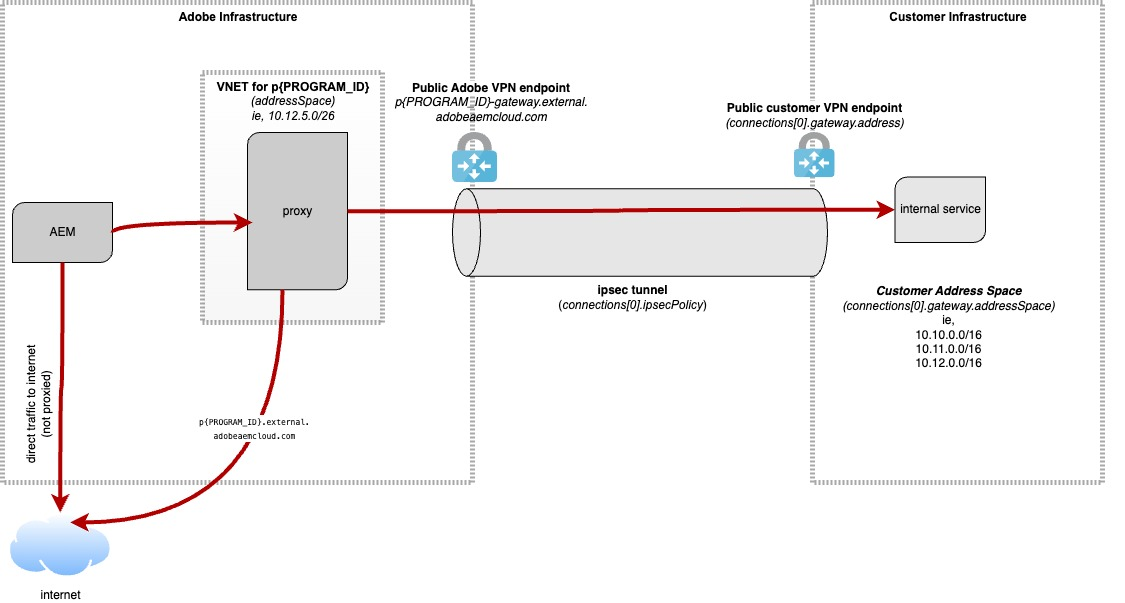
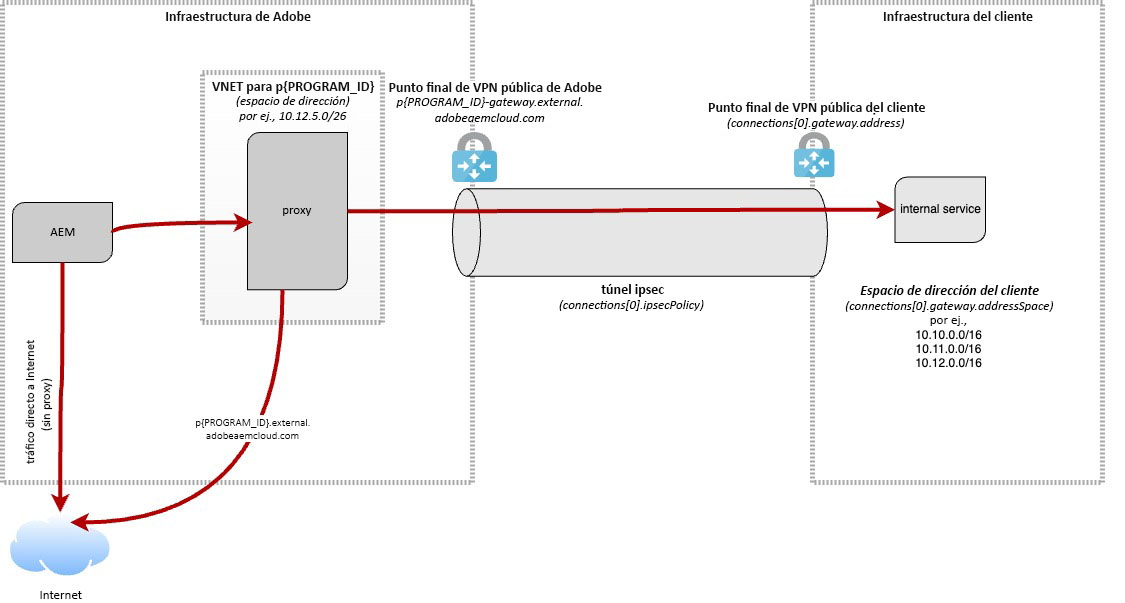
Updated by task 'AUTO_HANDOFF_PRIORITY_1731069575689'  Changes for core/source commit https://git.corp.adobe.com/AdobeDocs/experience-manager-cloud-service.en/commit/54368872e8e7d5f177ca75e6280786b33562cf8f

diff --git a/help/implementing/cloud-manager/release-notes/current.md b/help/implementing/cloud-manager/release-notes/current.md
@@ -5,15 +5,15 @@ feature: Release Information
 role: Admin
 exl-id: 24d9fc6f-462d-417b-a728-c18157b23bbe
 source-git-commit: 87293526ca9c10a142bc1d1d3a35562b171da385
-workflow-type: tm+mt
+workflow-type: ht
 source-wordcount: '784'
-ht-degree: 30%
+ht-degree: 100%
 
 ---
 
 # Notas de la versión para Cloud Manager 2024.11.0 en Adobe Experience Manager as a Cloud Service {#release-notes}
 
-Obtenga información acerca del lanzamiento de Cloud Manager AEM 2024.11.0 en el as a Cloud Service de (Adobe Experience Manager) en la.
+Obtenga información sobre el lanzamiento de Cloud Manager 2024.11.0 en AEM (Adobe Experience Manager) as a Cloud Service.
 
 >[!NOTE]
 >
@@ -28,7 +28,7 @@ La próxima versión planificada es el 5 de diciembre de 2024.
 ## Novedades {#what-is-new}
 
 * Experimente la última innovación en Edge Delivery Services con AEM Cloud Service, ahora disponible para explorar en su programa de zona protegida. [Más información](/help/implementing/cloud-manager/getting-access-to-aem-in-cloud/introduction-sandbox-programs.md#auto-creation) <!-- (CMGR-62319) -->
-* La página Configuración de dominio de AEM Cloud Manager ahora incluye una función de búsqueda que permite localizar rápidamente dominios por nombre. Puede introducir palabras clave en el campo de búsqueda para filtrar y mostrar los dominios coincidentes, lo que facilita la administración eficaz de varios dominios. Además, la página ofrece filtros de estado, como **Verificado** y **No verificado**, para restringir aún más los resultados de búsqueda. <!-- (CMGR-62615) -->
+* La página Configuración de dominio de AEM Cloud Manager ahora incluye una función de búsqueda que permite localizar con rapidez dominios por nombre. Puede introducir palabras clave en el campo de búsqueda para filtrar y mostrar los dominios coincidentes, lo que facilita la administración eficaz de varios dominios. Además, la página ofrece filtros de estado, como **Verificado** y **No verificado**, para restringir aún más los resultados de búsqueda. <!-- (CMGR-62615) -->
 
 ![Campo de búsqueda en la configuración de dominio](/help/implementing/cloud-manager/assets/domain-settings-search.png)
 
@@ -36,16 +36,16 @@ La próxima versión planificada es el 5 de diciembre de 2024.
 
 Participe en nuestro programa para primeros usuarios de Cloud Manager y tenga la oportunidad de probar algunas de las próximas funciones.
 
-### AEM Página de inicio {#aem-home}
+### Inicio de AEM {#aem-home}
 
-AEM Inicio presenta un punto de partida centralizado para administrar contenido, recursos y sitios en Adobe Experience Manager. AEM AEM Diseñado para ofrecer una experiencia personalizada, el Hogar de la le permite navegar por el ecosistema de forma fluida según sus roles y objetivos. Como guía, proporciona perspectivas clave y acciones recomendadas para ayudarle a lograr sus objetivos de forma eficaz. AEM AEM Con un diseño claro y dirigido por el usuario, el hogar de la comunidad de usuarios garantiza un acceso rápido a las herramientas esenciales, lo que permite una experiencia ágil y eficaz en todas las funciones de la comunidad de usuarios de la red de área de trabajo de la comunidad de.
+El inicio de AEM presenta un punto de partida centralizado para administrar contenido, recursos y sitios en Adobe Experience Manager. Diseñado para ofrecer una experiencia personalizada, el inicio de AEM le permite navegar por el ecosistema de forma fluida según sus roles y objetivos. Como guía, proporciona perspectivas clave y acciones recomendadas para ayudarle a lograr sus objetivos de forma eficaz. Con un diseño claro y dirigido por el usuario, el inicio de AEM garantiza un acceso rápido a las herramientas esenciales, lo que permite una experiencia ágil y eficaz en todas las funciones de AEM.
 
-AEM Disponible para los primeros usuarios que lo adoptaron, el Hogar ofrece una experiencia optimizada centrada en mejorar los flujos de trabajo, priorizar los objetivos y ofrecer resultados. AEM AEM La inclusión le permite influir en el desarrollo de la página de inicio de la página de inicio al proporcionar comentarios que ayudan a dar forma a su futuro y mejorar su valor para toda la comunidad de la.
+Disponible para los primeros usuarios, el inicio de AEM ofrece una experiencia optimizada centrada en mejorar los flujos de trabajo, priorizar los objetivos y lograr resultados. La inclusión le permite influir en el desarrollo del inicio de AEM al proporcionar comentarios que ayudan a dar forma a su futuro y mejorar su valor para toda la comunidad de AEM.
 
-Si está interesado en probar esta nueva funcionalidad y compartir sus comentarios, envíe un correo electrónico a [Grp-AemHome@adobe.com](mailto:Grp-AemHome@adobe.com) desde su dirección de correo electrónico asociada a su Adobe ID. Asegúrese de incluir la siguiente información:
+Si le interesa probar esta nueva función y compartir sus comentarios, envíe un correo electrónico a [Grp-AemHome@adobe.com](mailto:Grp-AemHome@adobe.com) desde la dirección de correo electrónico asociada a su Adobe ID. Asegúrese de incluir la siguiente información:
 
 * La función que mejor se adapta a su perfil: Autor de contenido, Desarrollador, Propietario empresarial, Administrador u Otro (proporcione una descripción).
-* AEM Su superficie de acceso principal al: AEM Sites, AEM Assets, AEM Forms, Cloud Manager u Otros (proporcione una descripción).
+* Su superficie de acceso principal a AEM: AEM Sites, AEM Assets, AEM Forms, Cloud Manager u Otro (proporcione una descripción).
 
 ### Usar su propio Git: ahora se admiten GitLab y Bitbucket {#gitlab-bitbucket}
 
@@ -61,16 +61,16 @@ Consulte [Adición de repositorios externos en Cloud Manager](/help/implementing
 >
 >Actualmente, las comprobaciones de calidad del código de las solicitudes de extracción listas para usar son exclusivas de los repositorios alojados en GitHub, pero se está trabajando en una actualización para ampliar esta funcionalidad a otros proveedores de Git.
 
-Si le interesa probar esta nueva función y compartir sus comentarios, envíe un correo electrónico a [Grp-CloudManager_BYOG@adobe.com](mailto:Grp-CloudManager_BYOG@adobe.com) desde su dirección de correo electrónico asociada a su Adobe ID. Asegúrese de incluir qué plataforma Git desea utilizar y si se encuentra en una estructura de repositorio privada/pública o empresarial. —>
+Si le interesa probar esta nueva función y compartir sus comentarios, envíe un correo electrónico a [Grp-CloudManager_BYOG@adobe.com](mailto:Grp-CloudManager_BYOG@adobe.com) desde su dirección de correo electrónico asociada a su Adobe ID. Asegúrese de incluir qué plataforma Git desea utilizar y si se encuentra en una estructura de repositorio privado/público o de empresa. -->
 
 
-## Corrección de errores
+## Correcciones de errores
 
 * Una actualización reciente solucionó un problema en SonarQube en el que las contraseñas codificadas no se detectaban en determinados casos. La corrección ahora incluye una comprobación de patrones ampliada y se alinea con los estándares de detección predeterminados en SonarQube. <!-- CMGR-62682 -->
-* Al intentar actualizar un certificado SSL en Cloud Manager, aparecería un error desconocido después de hacer clic en **[!UICONTROL Actualizar]** en el cuadro de diálogo **[!UICONTROL Ver y actualizar el certificado SSL]**. <!-- CMGR-62848 -->
-* En Cloud Manager, las actualizaciones de certificados SSL fallaban con el error &quot;El nuevo certificado no coincide con los dominios existentes&quot;, incluso cuando los dominios eran idénticos pero tenían diferencias en mayúsculas y minúsculas. La actualización ahora reconoce los dominios como que no distinguen entre mayúsculas y minúsculas, alineándose con los estándares RFC. <!-- CMGR-62844 -->
-* En Cloud Manager, los enlaces de Lista de permitidos IP permanecían atascados en un estado de ejecución porque faltaban vínculos de clave externa a configuraciones de dominio. La corrección ahora garantiza que los enlaces de Lista de permitidos IP se vinculen correctamente a las configuraciones de dominio asociadas. <!-- CMGR-62838 -->
-* Cloud Manager valida el estado de OCSP (Online Certificate Status Protocol) de un certificado SSL. El Adobe recomienda validar también la integridad del certificado localmente mediante una herramienta como `openssl verify -untrusted intermediate.pem certificate.pem` antes de instalarlo mediante Cloud Manager. Para obtener más información, consulte la [documentación sobre los requisitos de certificado SSL](https://experienceleague.adobe.com/en/docs/experience-manager-cloud-service/content/implementing/using-cloud-manager/manage-ssl-certificates/introduction-to-ssl-certificates#requirements). <!-- CMGR-62341  -->
+* Al intentar actualizar un certificado SSL en Cloud Manager, aparecía un error desconocido después de hacer clic en **[!UICONTROL Actualizar]** en el cuadro de diálogo **[!UICONTROL Ver y actualizar el certificado SSL]**. <!-- CMGR-62848 -->
+* En Cloud Manager, las actualizaciones de certificados SSL fallaban con el error “El nuevo certificado no coincide con los dominios existentes”, incluso cuando los dominios eran idénticos, pero tenían diferencias en mayúsculas y minúsculas. La actualización ahora reconoce los dominios como que no distinguen entre mayúsculas y minúsculas, lo que coincide con los estándares RFC. <!-- CMGR-62844 -->
+* En Cloud Manager, los enlaces de Lista de IP permitidas permanecían atascados en un estado de ejecución porque faltaban vínculos de clave externa a configuraciones de dominio. La corrección ahora garantiza que los enlaces de Lista de IP permitidas se vinculen de manera correcta a las configuraciones de dominio asociadas. <!-- CMGR-62838 -->
+* Cloud Manager valida el estado de OCSP (Online Certificate Status Protocol) de un certificado SSL. Adobe recomienda validar también la integridad del certificado de forma local mediante una herramienta como `openssl verify -untrusted intermediate.pem certificate.pem` antes de instalarlo mediante Cloud Manager. Para obtener más información, consulte la [documentación sobre los requisitos de certificado SSL](https://experienceleague.adobe.com/es/docs/experience-manager-cloud-service/content/implementing/using-cloud-manager/manage-ssl-certificates/introduction-to-ssl-certificates#requirements). <!-- CMGR-62341  -->
 
 
 

diff --git a/help/security/configuring-advanced-networking.md b/help/security/configuring-advanced-networking.md
@@ -5,9 +5,9 @@ exl-id: 968cb7be-4ed5-47e5-8586-440710e4aaa9
 feature: Security
 role: Admin
 source-git-commit: 2a7d46e91bbd6ca96bd8b7fd5d4d84cf69bdee36
-workflow-type: tm+mt
+workflow-type: ht
 source-wordcount: '5524'
-ht-degree: 99%
+ht-degree: 100%
 
 ---
 
